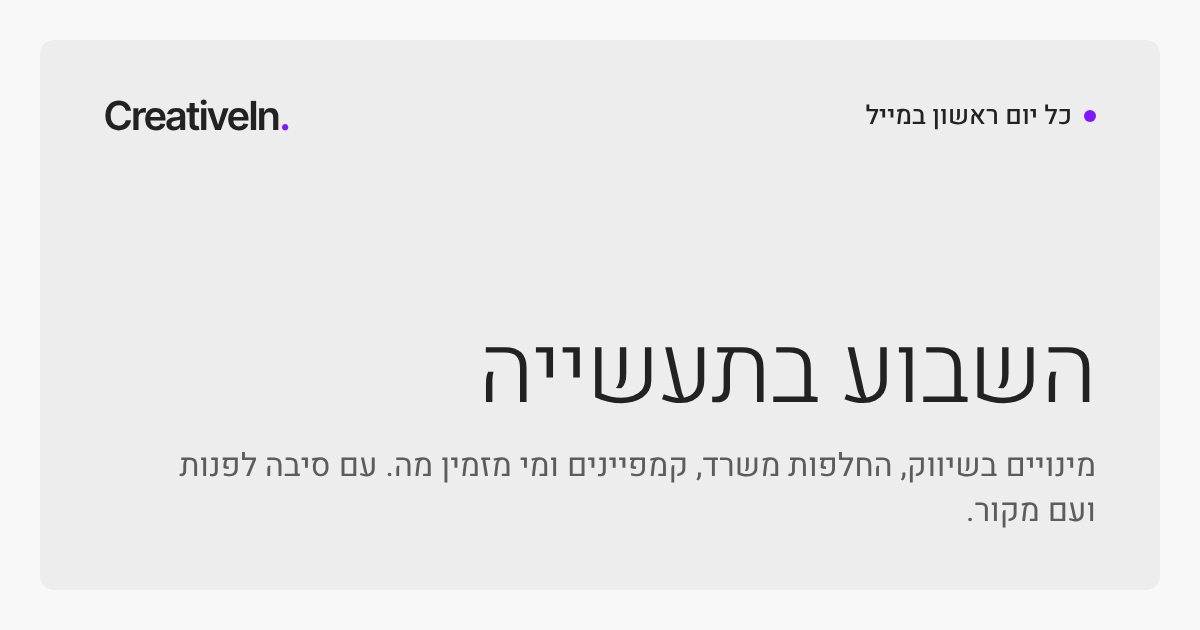
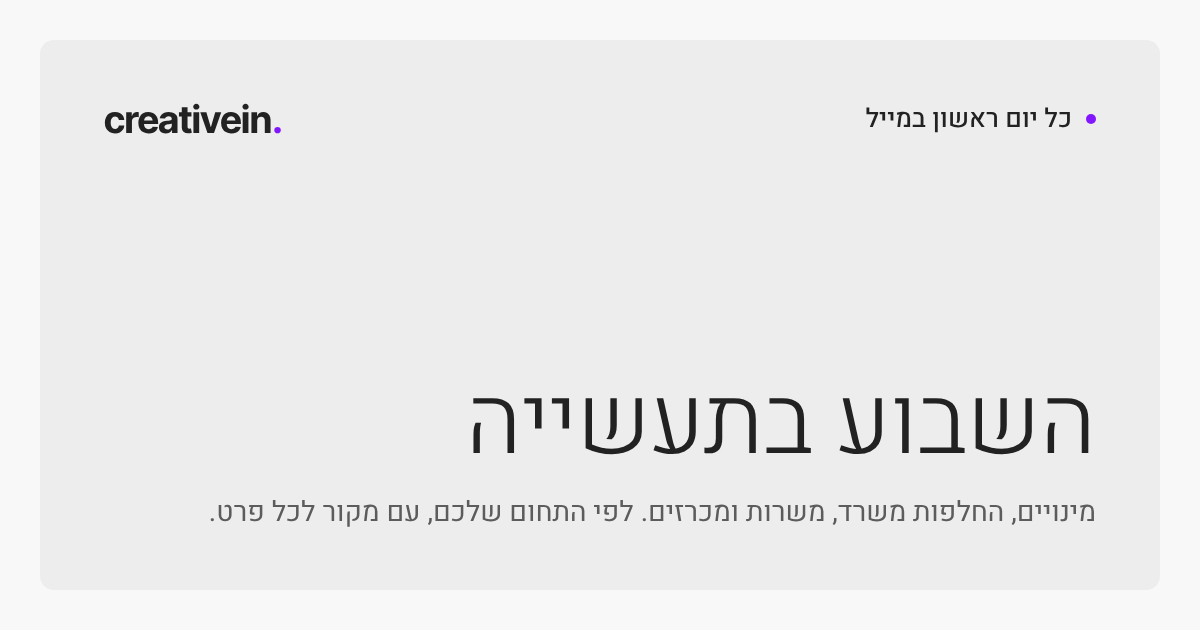
Brand "creativein.", canonical URLs and JSON-LD, feedback form, launch analytics events
- Brand: lowercase "creativein." wordmark and the new tagline in the shared chrome, titles
  ("X · creativein."), Open Graph (new site/digest/survey images), consent text, privacy copy.
- SEO: metadataBase from siteUrl() and a canonical path per public page; Organization and
  WebSite (site search) JSON-LD in the layout. Nothing hardcodes the new domain.
- Feedback: /feedback (footer link and the /join sent screen) -> POST /api/feedback (readJson,
  rate-limited, service role) -> table feedback (migration 008, no browser access). Without
  Supabase the form says it's unavailable. Privacy page explains feedback and analytics.
- Analytics: search_submit {has_craft, has_city} (no query text), company_open,
  opportunity_source_click {category}, tender_source_click, feedback_submit.
- Copy: no "now" claims where the data shows only what a company buys.

Claude-Session: https://claude.ai/code/session_016eGRXybPXEv1Ac6hsnR87h

diff --git a/app/privacy/page.js b/app/privacy/page.js
@@ -1,6 +1,6 @@
 import { PROFILES_ENABLED as P } from "@/lib/config";
 
-export const metadata = { title: "פרטיות" };
+export const metadata = { title: "פרטיות", alternates: { canonical: "/privacy" } };
 
 export default function Privacy() {
   return (
@@ -46,7 +46,7 @@ export default function Privacy() {
         <ul>
           <li><b>מה נשמר</b>: התחום, צורת העבודה, טווח ניסיון, אזור, טווחי תעריפים או שכר (ומספר מדויק אם בוחרים לכתוב), מחירים טיפוסיים, תנאי תשלום ואיחורים, סוגי לקוחות, ערוצים, השפעת AI, ומשפט חופשי אם כותבים.</li>
           <li><b>מה לא נשאל</b>: שמות של לקוחות, של חברות או של אנשים. אנחנו מנסים להסיר פרטי קשר שנכתבים בטקסט החופשי (מיילים, טלפונים, קישורים), והטקסט עצמו לא מתפרסם אף פעם.</li>
-          <li><b>מי רואה</b>: רק אתם. צוות <bdi>CreativeIn</bdi> ניגש לנתונים רק לצורך תפעול, והתוצאות מצטברות בלבד: חציון, טווח והתפלגות.</li>
+          <li><b>מי רואה</b>: רק אתם. צוות <bdi>creativein</bdi> ניגש לנתונים רק לצורך תפעול, והתוצאות מצטברות בלבד: חציון, טווח והתפלגות.</li>
           <li><b>קבוצות קטנות לא מוצגות</b>: מספר מופיע רק לקבוצה של 5 משיבים לפחות, הסכומים והאחוזים מעוגלים, וגודל הקבוצה מוצג בטווח. מספרים מדויקים שכותבים נכנסים לחישוב רק בקבוצות של 10 לפחות.</li>
           <li><b>פעם ביום לכל היותר</b>: התוצאות מתעדכנות לכל היותר פעם ביום, ורק אחרי 5 תשובות חדשות לפחות, כדי שאי אפשר יהיה להשוות בין שתי גרסאות ולזהות תשובה של אדם אחד.</li>
           <li><b>קישורי הזמנה</b>: אם נרשמתם דרך קישור הזמנה, נשמר מאיזה קישור, כדי לספור כמה אנשים ענו דרכו. בעלי הקישור רואים רק את המספר, שמתעדכן יחד עם התוצאות, ולא מי ענה ומה.</li>
@@ -88,6 +88,22 @@ export default function Privacy() {
         <p>
           ההתראות הן רשימת דיוור נפרדת מהמייל השבועי: הן נשלחות רק אחרי הסכמה מפורשת ואישור הכתובת, ושומרים מתי ובאיזה נוסח ניתנה ההסכמה.
           בכל מייל יש קישור להפסקת ההתראות בלחיצה, ואפשר להסיר חברות או לשנות את התדירות ב<a href="/me#follows">חשבון שלי</a>. מחיקת החשבון מוחקת גם את הרשימה.
+        </p>
+      </div>
+
+      <div className="card stack" id="feedback">
+        <h2>הערות ורעיונות</h2>
+        <p>
+          ב<a href="/feedback">טופס ההערות</a> נשמרים רק הטקסט שכתבתם, התאריך, מאיזה עמוד הגעתם, ומייל אם בחרתם להשאיר אותו (לא חובה).
+          המייל משמש רק כדי לחזור אליכם על ההערה, ולא נרשם לשום רשימת דיוור.
+        </p>
+      </div>
+
+      <div className="card stack" id="analytics">
+        <h2>מדידת שימוש</h2>
+        <p>
+          כדי לדעת מה מועיל, האתר סופר ביקורים ופעולות (למשל הרשמה, חיפוש או פתיחת קישור למקור) דרך Vercel Web Analytics.
+          המדידה מצטברת ובלי עוגיות, ולא נשלחים בה מייל, שם או מה שכתבתם בחיפוש.
         </p>
       </div>
 

diff --git a/app/digest/page.js b/app/digest/page.js
@@ -20,15 +20,15 @@ export async function generateMetadata({ searchParams }) {
   const who = craftsTitle(d);
   const title = who ? `השבוע בתעשייה: ${who}` : "השבוע בתעשייה";
   const top = [...d.items, ...d.more].slice(0, 2).map((i) => i.headline).join(" · ");
-  const description = top || "מי מונה לשיווק, מי החליף משרד ואילו מכרזים נפתחו השבוע בתעשיית הקריאייטיב בישראל. ולמה זה הזמן לפנות.";
+  const description = top || "מי מונה לשיווק, מי החליף משרד ואילו מכרזים נפתחו השבוע בתעשיית הקריאייטיב בישראל. ולמה זה רלוונטי לכם.";
   const url = `${siteUrl()}/digest${d.crafts.length ? `?crafts=${d.crafts.map((c) => c.slug).join(",")}` : ""}`;
-  const image = { url: "/og/digest.png", width: 1200, height: 630, alt: "השבוע בתעשייה · CreativeIn" };
+  const image = { url: "/og/digest.png", width: 1200, height: 630, alt: "השבוע בתעשייה · creativein." };
   return {
     title,
     description,
     alternates: { canonical: url },
-    openGraph: { title: `${title} · CreativeIn`, description, url, type: "article", locale: "he_IL", siteName: "CreativeIn", images: [image] },
-    twitter: { card: "summary_large_image", title: `${title} · CreativeIn`, description, images: [image.url] },
+    openGraph: { title: `${title} · creativein.`, description, url, type: "article", locale: "he_IL", siteName: "creativein.", images: [image] },
+    twitter: { card: "summary_large_image", title: `${title} · creativein.`, description, images: [image.url] },
   };
 }
 
@@ -41,7 +41,7 @@ function Item({ i, span }) {
       <div className="dfoot">
         {i.org?.href ? <a className="tap" href={i.org.href.replace(siteUrl(), "")}><bdi>{i.org.name}</bdi></a> : i.org?.name ? <bdi>{i.org.name}</bdi> : null}
         {i.source_url && (
-          <a className="src tap" href={i.source_url} target="_blank" rel="noopener noreferrer">
+          <a className="src tap" href={i.source_url} target="_blank" rel="noopener noreferrer" data-track="opportunity_source_click" data-track-category={i.type || "signal"}>
             <bdi>{i.source || "מקור"}</bdi> <LinkIcon size={14} />
           </a>
         )}
@@ -69,7 +69,7 @@ export default async function Digest({ searchParams }) {
         <span className="eyebrow">{d.range}</span>
         <h1>השבוע בתעשייה</h1>
         <p>
-          {who ? <>מה השתנה השבוע אצל מי שמזמין <b>{who}</b>, ולמה זה הזמן לפנות.</> : "מי מונה לשיווק, מי החליף משרד, אילו מכרזים נפתחו ומי מזמין עכשיו. כל עדכון עם הסיבה לפנות ועם מקור."}
+          {who ? <>מה השתנה השבוע אצל מי שמזמין <b>{who}</b>, ולמה זה רלוונטי לכם.</> : "מי מונה לשיווק, מי החליף משרד, אילו מכרזים נפתחו ומי מזמין עכשיו. כל עדכון עם הסיבה לפנות ועם מקור."}
         </p>
       </div>
 
@@ -128,7 +128,7 @@ export default async function Digest({ searchParams }) {
               </div>
               <div className="tresults">
                 {d.tenders.map((t) => (
-                  <a key={t.id} className="trow" href={t.url} target="_blank" rel="noopener noreferrer">
+                  <a key={t.id} className="trow" href={t.url} target="_blank" rel="noopener noreferrer" data-track="tender_source_click">
                     <b>{t.summary}</b>
                     <span>{t.buyer} · {t.countdown} · הגשה עד <bdi>{t.deadline}</bdi> · למכרז במקור הרשמי</span>
                   </a>

diff --git a/components/TrackClicks.js b/components/TrackClicks.js
@@ -1,18 +1,63 @@
 "use client";
 import { useEffect } from "react";
 import { track } from "@vercel/analytics";
+import taxonomy from "@/schema/taxonomy.json";
+import { fold, parseQuery } from "@/lib/match";
 
-// Any element with data-track="event_name" reports a click to Vercel Web Analytics (custom events need
-// a plan that has them; otherwise track() is a no-op). Forms call track() themselves on submit.
+// Meaningful actions for Vercel Web Analytics (custom events need a plan that has them; otherwise track()
+// is a no-op). Visitors and return visits come from Vercel Analytics itself: no cookies, no ids of ours.
+//  - Any element with data-track="event" reports a click; data-track-label / -category / -where ride along.
+//  - Links to a company (/companies#id) report company_open.
+//  - Search forms report search_submit with two flags only (a craft, a city). The query text is never sent.
+//  - A tender's official link reports tender_source_click and opportunity_source_click {category: tender}.
+const CITY_WORDS = new Set(Object.entries(taxonomy.cities_he || {}).flatMap(([en, he]) => [fold(en).split(" ")[0], fold(he).split(" ")[0]]));
+const unprefix = (w) => (w.length > 2 && /^[בלמ]/.test(w) ? w.slice(1) : w);
+const ALIAS = { tender_source_open: "tender_source_click" };
+
+function send(name, props) {
+  try { track(name, props && Object.keys(props).length ? props : undefined); } catch {}
+}
+
+function propsOf(el) {
+  const d = el.dataset || {};
+  const p = {};
+  if (d.trackLabel) p.label = d.trackLabel;
+  if (d.trackCategory) p.category = d.trackCategory;
+  if (d.trackWhere) p.where = d.trackWhere;
+  return p;
+}
+
 export default function TrackClicks() {
   useEffect(() => {
     const onClick = (e) => {
-      const el = e.target.closest?.("[data-track]");
+      const el = e.target.closest?.("[data-track], a[href]");
       if (!el) return;
-      try { track(el.getAttribute("data-track"), el.dataset.trackLabel ? { label: el.dataset.trackLabel } : undefined); } catch {}
+      const name = el.getAttribute("data-track");
+      if (name) {
+        const event = ALIAS[name] || name;
+        send(event, propsOf(el));
+        if (event === "tender_source_click") send("opportunity_source_click", { category: "tender" });
+        return;
+      }
+      const href = el.getAttribute("href") || "";
+      if (/^\/companies\/?#(?!signals$)[^/]+$/.test(href)) send("company_open", { where: location.pathname });
+    };
+    const onSubmit = (e) => {
+      const form = e.target;
+      if (!(form instanceof HTMLFormElement) || form.getAttribute("role") !== "search") return;
+      const data = new FormData(form);
+      const q = String(data.get("q") || "");
+      const parsed = parseQuery(q);
+      const hasCraft = Boolean(data.get("craft") || parsed.craft);
+      const hasCity = Boolean(data.get("city")) || fold(q).split(" ").some((w) => CITY_WORDS.has(w) || CITY_WORDS.has(unprefix(w)));
+      send("search_submit", { where: (form.getAttribute("action") || location.pathname).slice(0, 40), has_craft: hasCraft, has_city: hasCity });
     };
     document.addEventListener("click", onClick, true);
-    return () => document.removeEventListener("click", onClick, true);
+    document.addEventListener("submit", onSubmit, true);
+    return () => {
+      document.removeEventListener("click", onClick, true);
+      document.removeEventListener("submit", onSubmit, true);
+    };
   }, []);
   return null;
 }

diff --git a/app/feedback/FeedbackForm.js b/app/feedback/FeedbackForm.js
@@ -1,0 +1,67 @@
+"use client";
+import { useState } from "react";
+import { track } from "@vercel/analytics";
+
+const MAX = 1000;
+const ERR = {
+  empty: "צריך לכתוב לפחות כמה מילים.",
+  bad_email: "כתובת המייל לא נראית תקינה. אפשר גם להשאיר את השדה ריק.",
+  rate_limited: "נשלחו כבר כמה הערות מהמכשיר הזה. אפשר לנסות שוב בעוד כמה דקות.",
+  not_configured: "שליחת הערות לא זמינה כרגע.",
+};
+
+export default function FeedbackForm({ ready, from }) {
+  const [message, setMessage] = useState("");
+  const [email, setEmail] = useState("");
+  const [state, setState] = useState({ busy: false, done: false, error: "" });
+
+  if (!ready) return <p className="notice" role="status">שליחת הערות לא זמינה כרגע.</p>;
+  if (state.done) {
+    return (
+      <div className="notice ok" role="status">
+        <b>תודה, ההערה התקבלה.</b> {email ? "אם יהיו שאלות, נחזור אליכם למייל שהשארתם." : "נקרא אותה בימים הקרובים."}
+      </div>
+    );
+  }
+
+  async function send(e) {
+    e.preventDefault();
+    if (state.busy) return;
+    setState({ busy: true, done: false, error: "" });
+    const page = from ? `/${from}` : "/feedback";
+    const res = await fetch("/api/feedback", {
+      method: "POST",
+      headers: { "content-type": "application/json" },
+      body: JSON.stringify({ message, email: email.trim() || undefined, page }),
+    }).catch(() => null);
+    const out = res ? await res.json().catch(() => ({})) : {};
+    if (res?.ok) {
+      try { track("feedback_submit", from ? { where: from } : undefined); } catch {}
+      setState({ busy: false, done: true, error: "" });
+    } else {
+      setState({ busy: false, done: false, error: ERR[out.error] || "השליחה נכשלה. מה שכתבתם נשאר כאן, אפשר לנסות שוב." });
+    }
+  }
+
+  return (
+    <form className="card stack" onSubmit={send}>
+      <div className="field">
+        <label htmlFor="fb-message">מה חסר, או מה לשפר?</label>
+        <textarea id="fb-message" required maxLength={MAX} rows={5} dir="auto" value={message} onChange={(e) => setMessage(e.target.value)} placeholder="למשל: הייתי רוצה לראות גם מכרזים של עיריות קטנות" />
+        <p className="hint">{message.length}/{MAX}</p>
+      </div>
+      <div className="field">
+        <label htmlFor="fb-email">מייל (לא חובה)</label>
+        <p className="hint">רק אם רוצים שנחזור אליכם. לא נרשמים בזה לשום רשימה.</p>
+        <input id="fb-email" type="email" dir="ltr" autoComplete="email" maxLength={200} value={email} onChange={(e) => setEmail(e.target.value)} placeholder="name@example.com" />
+      </div>
+      {state.error && <div className="notice err" role="alert">{state.error}</div>}
+      <div>
+        <button className="btn primary" disabled={state.busy || message.trim().length < 2}>
+          {state.busy ? <span className="spinner" aria-hidden /> : null}
+          שליחה
+        </button>
+      </div>
+    </form>
+  );
+}

diff --git a/app/layout.js b/app/layout.js
@@ -6,21 +6,42 @@ import MenuCloser from "@/components/MenuCloser";
 import TrackClicks from "@/components/TrackClicks";
 import { Analytics } from "@vercel/analytics/next";
 import { supabaseConfig } from "@/lib/config";
-import { THEME_SCRIPT, footerHtml } from "@/lib/chrome.mjs";
+import { THEME_SCRIPT, footerHtml, BRAND, TAGLINE } from "@/lib/chrome.mjs";
+import { siteUrl } from "@/lib/digest";
 
-const DESCRIPTION = "מי מונה לשיווק, מי החליף משרד, אילו מכרזים נפתחו ומי מזמין את מה שאתם עושים. כל יום ראשון במייל, לפי התחום שלכם, עם הסיבה לפנות עכשיו. חינם.";
+const DESCRIPTION = "תעשיית הקריאייטיב בישראל. האנשים, החברות וההזדמנויות: מינויים, החלפות משרד, משרות ומכרזים, עם מקור לכל פרט. כל יום ראשון במייל, לפי התחום שלכם. חינם.";
+const NAME = `${BRAND}.`;
 
+// The base URL comes from the environment (NEXT_PUBLIC_SITE_URL), so canonical and share links follow
+// whichever domain is connected. Each page sets its own canonical path.
 export const metadata = {
-  title: { default: "CreativeIn · מי מזמין מה בתעשיית הקריאייטיב", template: "%s · CreativeIn" },
+  metadataBase: new URL(siteUrl()),
+  title: { default: `${NAME} · תעשיית הקריאייטיב בישראל`, template: `%s · ${NAME}` },
   description: DESCRIPTION,
+  applicationName: NAME,
   openGraph: {
     title: "לא צריך להכיר את כולם. צריך לדעת מי מזמין, ומתי לפנות.",
     description: DESCRIPTION,
+    siteName: NAME,
     locale: "he_IL",
     type: "website",
+    images: [{ url: "/og/site.png", width: 1200, height: 630, alt: `${NAME} · תעשיית הקריאייטיב בישראל` }],
   },
+  twitter: { card: "summary_large_image", images: ["/og/site.png"] },
   icons: { icon: "/favicon.svg" },
 };
+
+// Structured data: who publishes the site, and the site search.
+function jsonLd() {
+  const url = siteUrl();
+  return JSON.stringify([
+    { "@context": "https://schema.org", "@type": "Organization", name: NAME, url, logo: `${url}/favicon.svg`, description: TAGLINE },
+    {
+      "@context": "https://schema.org", "@type": "WebSite", name: NAME, url, inLanguage: "he-IL",
+      potentialAction: { "@type": "SearchAction", target: `${url}/search?q={search_term_string}`, "query-input": "required name=search_term_string" },
+    },
+  ]).replace(/</g, "\\u003c");
+}
 
 export const viewport = { width: "device-width", initialScale: 1, themeColor: "#f8f8f8" };
 
@@ -38,6 +59,7 @@ export default function RootLayout({ children }) {
           rel="stylesheet"
           href="https://fonts.googleapis.com/css2?family=Inter+Tight:wght@300..700&family=Heebo:wght@300..700&display=swap"
         />
+        <script type="application/ld+json" dangerouslySetInnerHTML={{ __html: jsonLd() }} />
       </head>
       <body>
         <Providers supabase={cfg}>

diff --git a/app/api/feedback/route.js b/app/api/feedback/route.js
@@ -1,0 +1,37 @@
+import { NextResponse } from "next/server";
+import { adminClient } from "@/lib/supabase/server";
+import { readJson, allow } from "@/lib/guard";
+
+export const runtime = "nodejs";
+export const dynamic = "force-dynamic";
+
+const EMAIL = /^[^\s@]{1,64}@[^\s@]{1,190}\.[^\s@]{2,}$/;
+const err = (status, error) => NextResponse.json({ error }, { status });
+
+// GET tells the form whether feedback can be saved here (no database configured → the form says so).
+export async function GET() {
+  return NextResponse.json({ ready: Boolean(adminClient()) }, { headers: { "cache-control": "no-store" } });
+}
+
+// POST {message, email?, page?} → {ok}. Written with the service role; browsers can't touch the table.
+export async function POST(request) {
+  const admin = adminClient();
+  if (!admin) return err(503, "not_configured");
+  const ip = (request.headers.get("x-forwarded-for") || "").split(",")[0].trim() || "unknown";
+  if (!allow(`feedback:${ip}`, { max: 5, windowMs: 10 * 60_000 }) || !allow("feedback:all", { max: 200, windowMs: 60 * 60_000 })) {
+    return err(429, "rate_limited");
+  }
+  const body = await readJson(request, 8 * 1024);
+  if (!body) return err(400, "bad_request");
+  const message = typeof body.message === "string" ? body.message.trim().slice(0, 1000) : "";
+  if (message.length < 2) return err(400, "empty");
+  const email = typeof body.email === "string" ? body.email.trim().slice(0, 200) : "";
+  if (email && !EMAIL.test(email)) return err(400, "bad_email");
+  const page = typeof body.page === "string" && body.page.startsWith("/") ? body.page.slice(0, 200) : null;
+  const { error } = await admin.from("feedback").insert({ message, email: email || null, page });
+  if (error) {
+    console.error("feedback save failed", error.message);
+    return err(500, "save_failed");
+  }
+  return NextResponse.json({ ok: true });
+}

diff --git a/app/tenders/page.js b/app/tenders/page.js
@@ -11,8 +11,9 @@ export const revalidate = 3600;
 
 export const metadata = {
   title: "מכרזים פתוחים",
-  description: "עבודות קריאייטיב שאפשר להגיש עליהן הצעה עכשיו: הפקה, וידאו, עיצוב, אירועים וקמפיינים. משרדי ממשלה, עיריות וגופים ציבוריים, עם תאריך ההגשה וקישור למקור הרשמי.",
-  openGraph: { title: "מכרזים פתוחים לעבודות קריאייטיב · CreativeIn", description: "עבודה שאפשר להגיש עליה הצעה כבר השבוע. לפי תאריך ההגשה, עם קישור למקור הרשמי." },
+  description: "מכרזים לעבודות קריאייטיב: הפקה, וידאו, עיצוב, אירועים וקמפיינים. משרדי ממשלה, עיריות וגופים ציבוריים, עם מועד ההגשה וקישור למקור הרשמי.",
+  alternates: { canonical: "/tenders" },
+  openGraph: { title: "מכרזים לעבודות קריאייטיב · creativein.", description: "מכרזים ממשלתיים וציבוריים לעבודות קריאייטיב, לפי מועד ההגשה, עם קישור למקור הרשמי.", siteName: "creativein.", locale: "he_IL", type: "website", images: [{ url: "/og/site.png", width: 1200, height: 630 }] },
 };
 
 export default async function Tenders({ searchParams }) {

diff --git a/lib/taxonomy.js b/lib/taxonomy.js
@@ -41,11 +41,11 @@ export const TOPIC_SLUGS = TOPICS.map((t) => t.slug);
 
 // Shown next to the newsletter checkbox and stored with the opt-in (anti-spam law: explicit consent).
 export const CONSENT_TEXT =
-  "אני רוצה לקבל במייל את ״השבוע בתעשייה״ מ־CreativeIn, לפי התחומים שבחרתי. אפשר להסיר את ההרשמה בכל רגע.";
+  "אני רוצה לקבל במייל את ״השבוע בתעשייה״ מ־creativein, לפי התחומים שבחרתי. אפשר להסיר את ההרשמה בכל רגע.";
 
 // Shown next to the alerts checkbox and stored with the opt-in. Alerts are a separate list from the digest.
 export const ALERTS_CONSENT_TEXT =
-  "אני רוצה לקבל במייל התראות מ־CreativeIn כשמשהו משתנה בחברות שבחרתי. אפשר להפסיק בכל רגע.";
+  "אני רוצה לקבל במייל התראות מ־creativein כשמשהו משתנה בחברות שבחרתי. אפשר להפסיק בכל רגע.";
 export const ALERT_MODES = [
   { slug: "daily", he: "ביום שבו זה קורה" },
   { slug: "weekly", he: "סיכום פעם בשבוע" },

diff --git a/components/DigestSubscribe.js b/components/DigestSubscribe.js
@@ -51,7 +51,7 @@ export default function DigestSubscribe({ crafts: initialCrafts = [], frequency:
       <div className="notice ok" role="status">
         <b>כמעט סיימנו: שלחנו קישור אישור ל־<span className="ltr">{email}</span>.</b>
         <br />
-        לוחצים עליו כדי לאשר, והמייל הראשון יגיע {firstSendLabel(frequency)}: מינויים, החלפות משרד, מכרזים פתוחים ומי מזמין עכשיו. אחרי האישור אפשר לבחור תחומים. כדאי לפתוח את הקישור באותו מכשיר ובאותו דפדפן. לא הגיע? כדאי לבדוק בספאם.
+        לוחצים עליו כדי לאשר, והמייל הראשון יגיע {firstSendLabel(frequency)}: מינויים, החלפות משרד, משרות ומכרזים, ומי מזמין את מה שאתם עושים. אחרי האישור אפשר לבחור תחומים. הקישור עובד רק במכשיר ובדפדפן האלה. לא הגיע? כדאי לבדוק בספאם.
       </div>
     );
   }

diff --git a/app/page.js b/app/page.js
@@ -14,6 +14,8 @@ import "./tenders/tenders.css";
 import "./sell.css";
 
 // Tender deadlines count down: rebuild the page hourly.
+export const metadata = { alternates: { canonical: "/" } };
+
 export const revalidate = 3600;
 
 // Eight crafts on the home page, named exactly as everywhere else on the site (schema/taxonomy.json).
@@ -90,7 +92,7 @@ export default function Home() {
                 <p className="uhead"><Bidi>{i.headline}</Bidi></p>
                 {i.why && <p className="uwhy"><Bidi>{i.why}</Bidi></p>}
                 {i.org?.name && (
-                  <p className="uorg">{i.org.href ? <a className="tap" href={rel(i.org.href)} data-track="proof_item_open"><bdi>{i.org.name}</bdi></a> : <bdi>{i.org.name}</bdi>}</p>
+                  <p className="uorg">{i.org.href ? <a className="tap" href={rel(i.org.href)} data-track="company_open" data-track-where="home_update"><bdi>{i.org.name}</bdi></a> : <bdi>{i.org.name}</bdi>}</p>
                 )}
               </li>
             ))}

diff --git a/app/join/JoinFlow.js b/app/join/JoinFlow.js
@@ -149,6 +149,7 @@ export default function JoinFlow({ crafts: all }) {
             <p>שלחנו קישור אישור ל־<b className="ltr">{email}</b>. לוחצים עליו, והמייל הראשון יגיע {firstSendLabel(frequency)}.</p>
             <p className="notice">הקישור עובד רק במכשיר ובדפדפן האלה. כדאי לפתוח את המייל כאן.</p>
             <p className="muted small">לא הגיע תוך כמה דקות? כדאי לבדוק בספאם או בקידומי מכירות.</p>
+            <p className="small"><a className="tap" href="/feedback?from=join" data-track="feedback_open" data-track-where="join_sent">משהו חסר? יש רעיון לשיפור?</a></p>
             <div className="jfoot">
               <a className="btn primary lg" href="/digest">בינתיים, לעדכוני השבוע</a>
               <button type="button" className="tap jskip" onClick={() => go(2)}>כתובת אחרת? לשלוח שוב</button>
